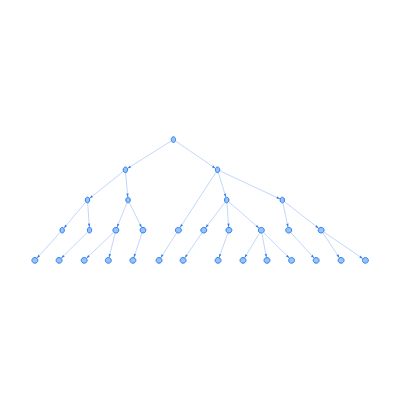
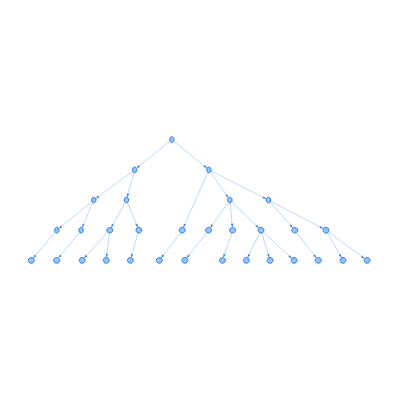
chore: update to 82cfc6d516da40faaaf8d13ec5cc5dc21e7270a3 [ci skip]

diff --git a/esnext/esm/vis-network.js b/esnext/esm/vis-network.js
@@ -5,7 +5,7 @@
  * A dynamic, browser-based visualization library.
  *
  * @version 0.0.0-no-version
- * @date    2026-06-20T18:16:22.705Z
+ * @date    2026-06-20T21:58:53.899Z
  *
  * @copyright (c) 2011-2017 Almende B.V, http://almende.com
  * @copyright (c) 2017-2019 visjs contributors, https://github.com/visjs

diff --git a/esnext/esm/vis-network.min.js b/esnext/esm/vis-network.min.js
@@ -5,7 +5,7 @@
  * A dynamic, browser-based visualization library.
  *
  * @version 0.0.0-no-version
- * @date    2026-06-20T18:16:22.705Z
+ * @date    2026-06-20T21:58:53.899Z
  *
  * @copyright (c) 2011-2017 Almende B.V, http://almende.com
  * @copyright (c) 2017-2019 visjs contributors, https://github.com/visjs

diff --git a/esnext/umd/vis-network.js b/esnext/umd/vis-network.js
@@ -5,7 +5,7 @@
  * A dynamic, browser-based visualization library.
  *
  * @version 0.0.0-no-version
- * @date    2026-06-20T18:16:22.705Z
+ * @date    2026-06-20T21:58:53.899Z
  *
  * @copyright (c) 2011-2017 Almende B.V, http://almende.com
  * @copyright (c) 2017-2019 visjs contributors, https://github.com/visjs

diff --git a/esnext/umd/vis-network.min.js b/esnext/umd/vis-network.min.js
@@ -5,7 +5,7 @@
  * A dynamic, browser-based visualization library.
  *
  * @version 0.0.0-no-version
- * @date    2026-06-20T18:16:22.705Z
+ * @date    2026-06-20T21:58:53.899Z
  *
  * @copyright (c) 2011-2017 Almende B.V, http://almende.com
  * @copyright (c) 2017-2019 visjs contributors, https://github.com/visjs

diff --git a/peer/esm/vis-network.js b/peer/esm/vis-network.js
@@ -5,7 +5,7 @@
  * A dynamic, browser-based visualization library.
  *
  * @version 0.0.0-no-version
- * @date    2026-06-20T18:16:22.705Z
+ * @date    2026-06-20T21:58:53.899Z
  *
  * @copyright (c) 2011-2017 Almende B.V, http://almende.com
  * @copyright (c) 2017-2019 visjs contributors, https://github.com/visjs

diff --git a/peer/esm/vis-network.min.js b/peer/esm/vis-network.min.js
@@ -5,7 +5,7 @@
  * A dynamic, browser-based visualization library.
  *
  * @version 0.0.0-no-version
- * @date    2026-06-20T18:16:22.705Z
+ * @date    2026-06-20T21:58:53.899Z
  *
  * @copyright (c) 2011-2017 Almende B.V, http://almende.com
  * @copyright (c) 2017-2019 visjs contributors, https://github.com/visjs

diff --git a/peer/umd/vis-network.js b/peer/umd/vis-network.js
@@ -5,7 +5,7 @@
  * A dynamic, browser-based visualization library.
  *
  * @version 0.0.0-no-version
- * @date    2026-06-20T18:16:22.705Z
+ * @date    2026-06-20T21:58:53.899Z
  *
  * @copyright (c) 2011-2017 Almende B.V, http://almende.com
  * @copyright (c) 2017-2019 visjs contributors, https://github.com/visjs

diff --git a/peer/umd/vis-network.min.js b/peer/umd/vis-network.min.js
@@ -5,7 +5,7 @@
  * A dynamic, browser-based visualization library.
  *
  * @version 0.0.0-no-version
- * @date    2026-06-20T18:16:22.705Z
+ * @date    2026-06-20T21:58:53.899Z
  *
  * @copyright (c) 2011-2017 Almende B.V, http://almende.com
  * @copyright (c) 2017-2019 visjs contributors, https://github.com/visjs

diff --git a/standalone/esm/vis-network.js b/standalone/esm/vis-network.js
@@ -5,7 +5,7 @@
  * A dynamic, browser-based visualization library.
  *
  * @version 0.0.0-no-version
- * @date    2026-06-20T18:16:22.705Z
+ * @date    2026-06-20T21:58:53.899Z
  *
  * @copyright (c) 2011-2017 Almende B.V, http://almende.com
  * @copyright (c) 2017-2019 visjs contributors, https://github.com/visjs

diff --git a/standalone/esm/vis-network.min.js b/standalone/esm/vis-network.min.js
@@ -5,7 +5,7 @@
  * A dynamic, browser-based visualization library.
  *
  * @version 0.0.0-no-version
- * @date    2026-06-20T18:16:22.705Z
+ * @date    2026-06-20T21:58:53.899Z
  *
  * @copyright (c) 2011-2017 Almende B.V, http://almende.com
  * @copyright (c) 2017-2019 visjs contributors, https://github.com/visjs

diff --git a/standalone/umd/vis-network.js b/standalone/umd/vis-network.js
@@ -5,7 +5,7 @@
  * A dynamic, browser-based visualization library.
  *
  * @version 0.0.0-no-version
- * @date    2026-06-20T18:16:22.705Z
+ * @date    2026-06-20T21:58:53.899Z
  *
  * @copyright (c) 2011-2017 Almende B.V, http://almende.com
  * @copyright (c) 2017-2019 visjs contributors, https://github.com/visjs

diff --git a/standalone/umd/vis-network.min.js b/standalone/umd/vis-network.min.js
@@ -5,7 +5,7 @@
  * A dynamic, browser-based visualization library.
  *
  * @version 0.0.0-no-version
- * @date    2026-06-20T18:16:22.705Z
+ * @date    2026-06-20T21:58:53.899Z
  *
  * @copyright (c) 2011-2017 Almende B.V, http://almende.com
  * @copyright (c) 2017-2019 visjs contributors, https://github.com/visjs